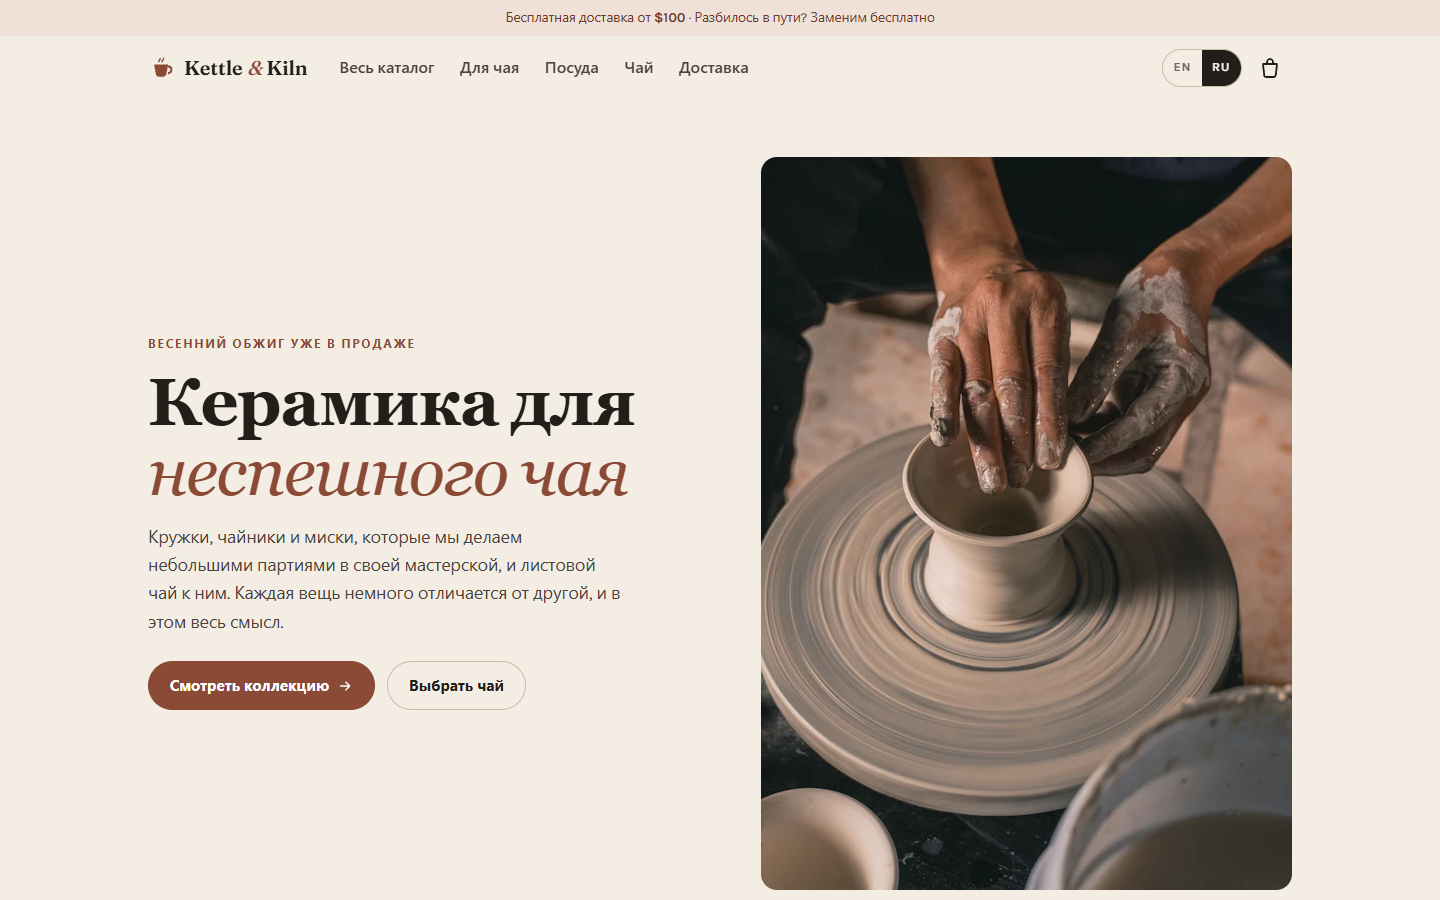
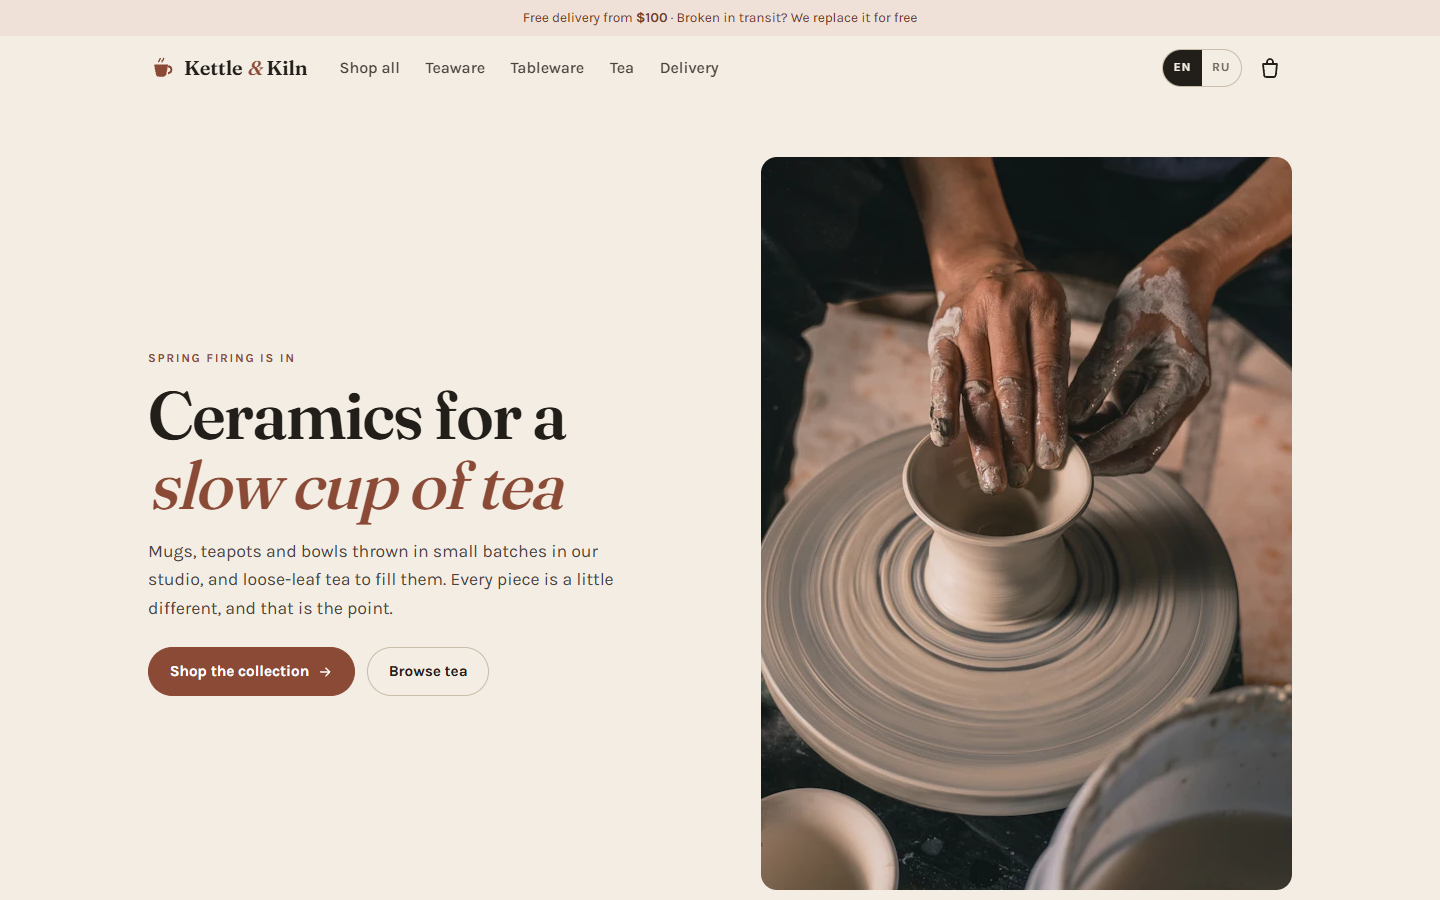
Site files, README and preview

diff --git a/cart.html b/cart.html
@@ -24,7 +24,7 @@
     var m = location.search.match(/[?&]lang=([a-z]{2})/i);
     if (m && langs.indexOf(m[1].toLowerCase()) > -1) lang = m[1].toLowerCase();
     if (!lang) { try { var s = localStorage.getItem('kk-lang'); if (langs.indexOf(s) > -1) lang = s; } catch (e) {} }
-    if (!lang) lang = /^ru/i.test(navigator.language || '') ? 'ru' : 'en';
+    if (!lang) lang = 'en';
     d.setAttribute('data-lang', lang);
     if (lang !== 'en') { d.className += ' i18n-pending'; setTimeout(function () { d.classList.remove('i18n-pending'); }, 1200); }
   })();

diff --git a/catalog.html b/catalog.html
@@ -23,7 +23,7 @@
     var m = location.search.match(/[?&]lang=([a-z]{2})/i);
     if (m && langs.indexOf(m[1].toLowerCase()) > -1) lang = m[1].toLowerCase();
     if (!lang) { try { var s = localStorage.getItem('kk-lang'); if (langs.indexOf(s) > -1) lang = s; } catch (e) {} }
-    if (!lang) lang = /^ru/i.test(navigator.language || '') ? 'ru' : 'en';
+    if (!lang) lang = 'en';
     d.setAttribute('data-lang', lang);
     if (lang !== 'en') { d.className += ' i18n-pending'; setTimeout(function () { d.classList.remove('i18n-pending'); }, 1200); }
   })();

diff --git a/checkout.html b/checkout.html
@@ -24,7 +24,7 @@
     var m = location.search.match(/[?&]lang=([a-z]{2})/i);
     if (m && langs.indexOf(m[1].toLowerCase()) > -1) lang = m[1].toLowerCase();
     if (!lang) { try { var s = localStorage.getItem('kk-lang'); if (langs.indexOf(s) > -1) lang = s; } catch (e) {} }
-    if (!lang) lang = /^ru/i.test(navigator.language || '') ? 'ru' : 'en';
+    if (!lang) lang = 'en';
     d.setAttribute('data-lang', lang);
     if (lang !== 'en') { d.className += ' i18n-pending'; setTimeout(function () { d.classList.remove('i18n-pending'); }, 1200); }
   })();

diff --git a/index.html b/index.html
@@ -23,7 +23,7 @@
     var m = location.search.match(/[?&]lang=([a-z]{2})/i);
     if (m && langs.indexOf(m[1].toLowerCase()) > -1) lang = m[1].toLowerCase();
     if (!lang) { try { var s = localStorage.getItem('kk-lang'); if (langs.indexOf(s) > -1) lang = s; } catch (e) {} }
-    if (!lang) lang = /^ru/i.test(navigator.language || '') ? 'ru' : 'en';
+    if (!lang) lang = 'en';
     d.setAttribute('data-lang', lang);
     if (lang !== 'en') { d.className += ' i18n-pending'; setTimeout(function () { d.classList.remove('i18n-pending'); }, 1200); }
   })();

diff --git a/product.html b/product.html
@@ -23,7 +23,7 @@
     var m = location.search.match(/[?&]lang=([a-z]{2})/i);
     if (m && langs.indexOf(m[1].toLowerCase()) > -1) lang = m[1].toLowerCase();
     if (!lang) { try { var s = localStorage.getItem('kk-lang'); if (langs.indexOf(s) > -1) lang = s; } catch (e) {} }
-    if (!lang) lang = /^ru/i.test(navigator.language || '') ? 'ru' : 'en';
+    if (!lang) lang = 'en';
     d.setAttribute('data-lang', lang);
     if (lang !== 'en') { d.className += ' i18n-pending'; setTimeout(function () { d.classList.remove('i18n-pending'); }, 1200); }
   })();
